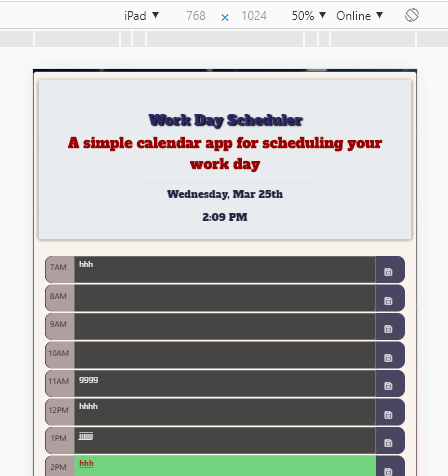
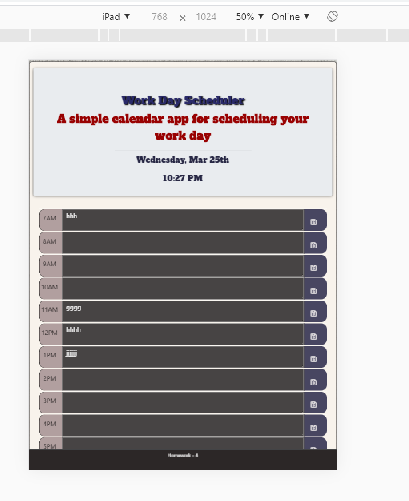
adding footer in index

diff --git a/assets/style.css b/assets/style.css
@@ -4,6 +4,7 @@
   background-position:  100% ;
   background-size: cover;
   background-repeat: no-repeat;
+
 }
 #wrapper{
   width: 70%;
@@ -128,10 +129,12 @@ margin-left: 10px;
   border-top-width: 1px;
   color:white;
   margin: auto;
-}
+  align-items: center;
+  }
 .footer-text{
   text-align: center;
   font-size: 12px;
+ padding-top:5px;
 }
 @media only screen and (max-width: 480px)  {
   .jumbotron h1 {

diff --git a/index.html b/index.html
@@ -32,7 +32,7 @@
         </div>
       </div>
         <!-- Start Footer -->
-    <nav class="navbar fixed-bottom footer">
+    <nav class=" fixed-bottom footer">
       <div class="footer-text">Homework - 4</div>
     </nav>
       
